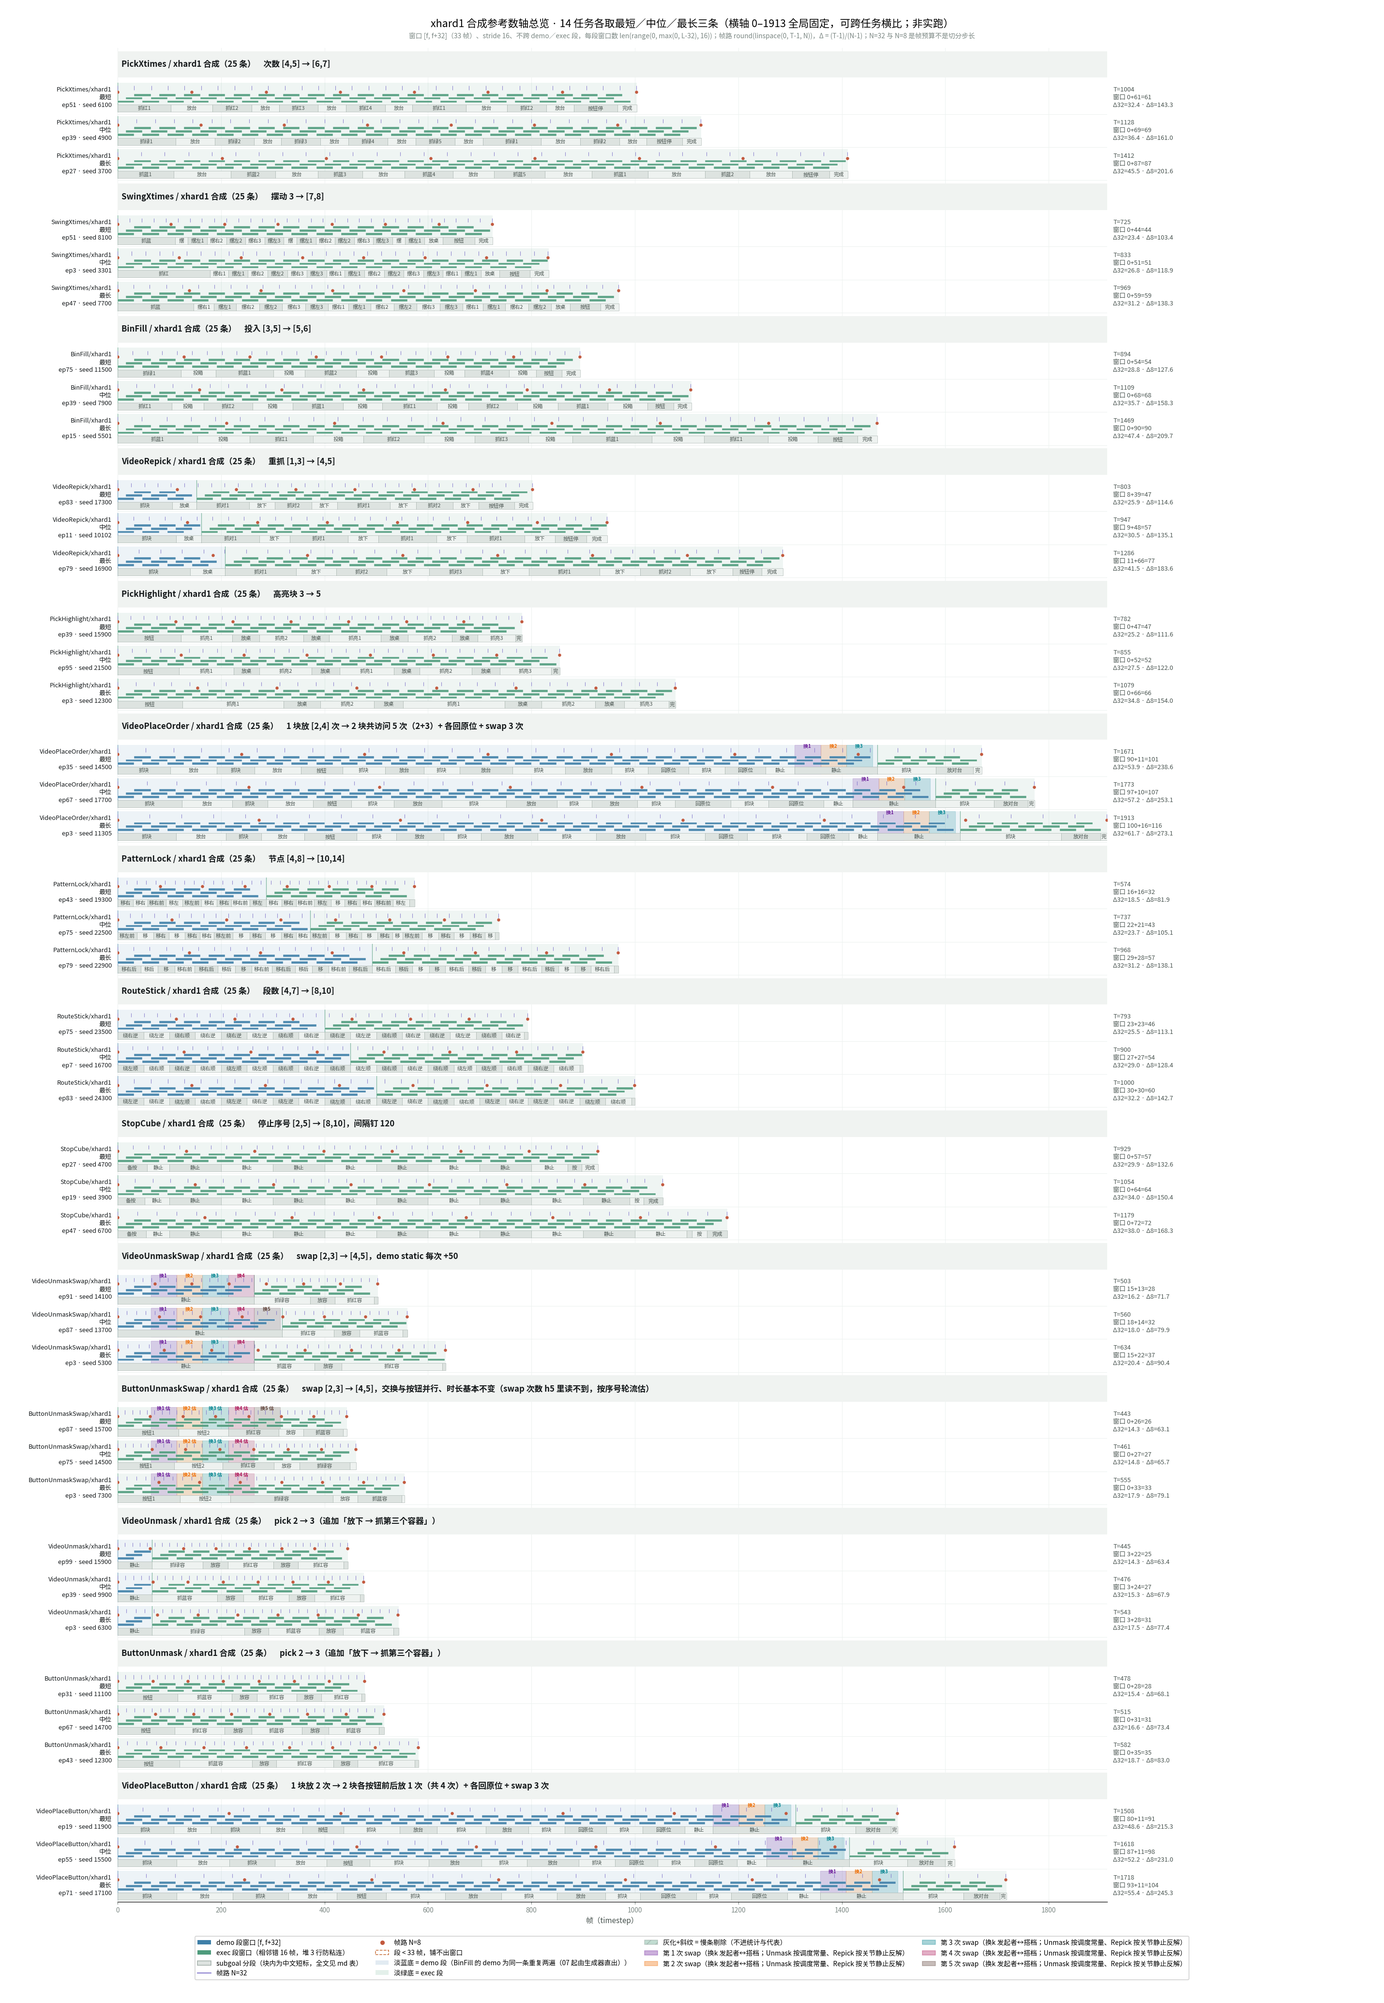
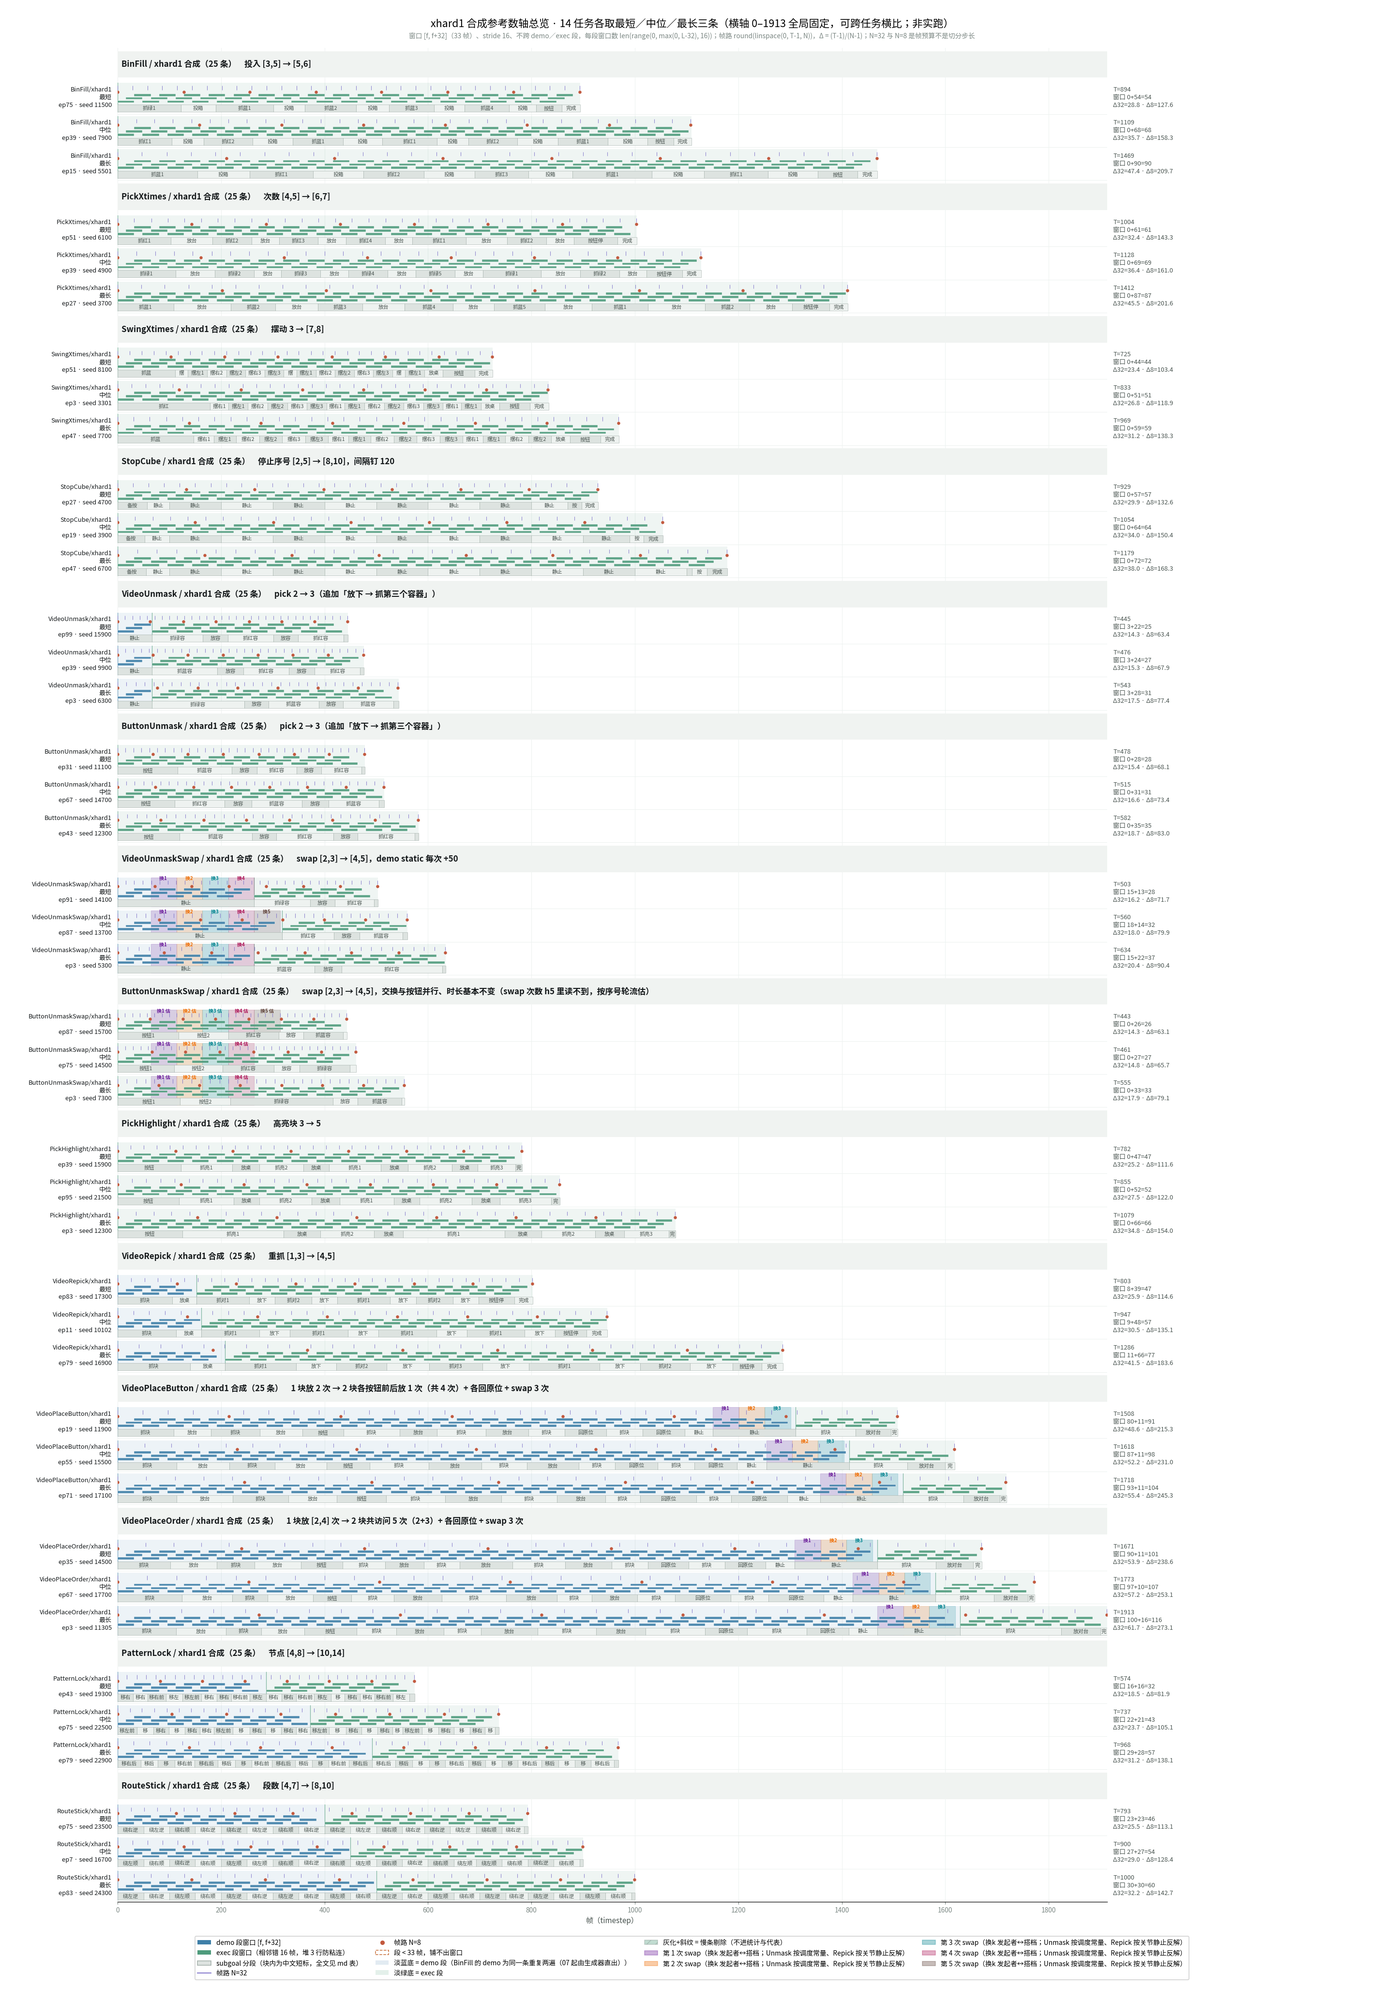
2.35.1 任务表格按 robomme.github.io 四类顺序排列并写入 AGENTS.md P6
一、用户指令原话（2026-10-07）
「按照https://robomme.github.io/的分类来排列表格 你现在都乱排的 写入agentsmd」

二、计划
1. 从官网取四类与类内顺序：计数 1.1 BinFill、1.2 PickXtimes、1.3 SwingXtimes、1.4 StopCube；永久性 2.1 VideoUnmask、2.2 ButtonUnmask、2.3 VideoUnmaskSwap、2.4 ButtonUnmaskSwap；参考 3.1 PickHighlight、3.2 VideoRepick、3.3 VideoPlaceButton、3.4 VideoPlaceOrder；模仿 4.1 MoveCube、4.2 InsertPeg、4.3 PatternLock、4.4 RouteStick。
2. 计划、vis 脚本与 README 里所有按任务列的表格、列表、汇总、总览图都按此重排；AGENTS.md 加项目规则 P6。

三、实施
一、1006-xhard12-env-plan.md：用一次性脚本按任务名（含 snake_case 文件名）给表格行取官网序号排序，不改行内容。四节配置对比表 `#`（原 env_code 顺序）改为「编号 | 类别」两列，用官网编号 1.1～4.4，表前说明改为按官网四类；「纳入 14 个（#1～12、15、16）」改写为「1.1～3.4、4.3、4.4」，追加纳入的「#6、8、10、11」改写为「2.1、2.2、3.3、3.4」。重排的还有：V2 逐任务长度对比表、swap 结果表、第二部分子类文件表、八节逐任务估算列表（重编 1～12）。逐任务图链接表改为按类别四行。一节范围表、S1/S2 可写文件集合、runbook 全量 `--env` 列表内部按同序排列。
二、vis/synthesize_reference_timeline.py：新增 `SUITE_ORDER`，默认 `--tasks` 与处理顺序按它排序，因此 reference_summary.md 与 overview.png 都按四类顺序。删除 `RULES` 里一个失效的重复键（VideoPlaceOrder 的旧 `pairs_demo` 规则，早已被后写的 `place_two_cubes` 覆盖，运行结果不变）。
三、vis/README.md：复制规则表按四类排序并加一句说明；删除同一条失效的 VideoPlaceOrder 旧规则行，否则重排后「同上」会指向它。
四、AGENTS.md：新增 P6，写明四类顺序、编号用法；注明 seed_layout.py 的 env_code 属于 seed 公式，不受本条影响。

四、意外
发现 vis 的 RULES 与 README 各残留一条 2.34 之前的 VideoPlaceOrder 规则（字典重复键，后者生效），顺手删除。核对重跑后 14 个 reference_*.json 与 14 张逐任务图逐字节不变，说明运行结果确实不受影响。

五、验证
[…]

diff --git a/vis/synthesize_reference_timeline.py b/vis/synthesize_reference_timeline.py
@@ -52,8 +52,6 @@ RULES: dict[str, dict[str, Any]] = {
                     "place": r"^put it down$", "target": [4, 5], "note": "重抓 [1,3] → [4,5]"},
     "PickHighlight": {"kind": "pairs_exec_lastpick", "pick": r"^pick up the \w+ highlighted cube",
                       "place": r"^place the cube onto the table$", "target": [5], "note": "高亮块 3 → 5"},
-    "VideoPlaceOrder": {"kind": "pairs_demo", "pick": r"^pick up the cube$", "place": r"^drop the cube onto target$",
-                        "target": [4], "note": "演示放台 [2,4] → 4"},
     "PatternLock": {"kind": "moves_both", "move": r"^move ", "target": [10, 11, 12, 13, 14], "note": "节点 [4,8] → [10,14]"},
     "RouteStick": {"kind": "moves_both", "move": r"^move to the nearest ", "target": [8, 9, 10], "note": "段数 [4,7] → [8,10]"},
     "StopCube": {"kind": "stopcube", "target": [8, 9, 10], "interval": 120, "note": "停止序号 [2,5] → [8,10]，间隔钉 120"},
@@ -67,6 +65,16 @@ RULES: dict[str, dict[str, Any]] = {
     "VideoPlaceOrder": {"kind": "place_two_cubes", "visits": 5, "swaps": 3,
                         "note": "1 块放 [2,4] 次 → 2 块共访问 5 次（2+3）+ 各回原位 + swap 3 次"},
 }
+
+# 任务排列顺序：按 https://robomme.github.io/ 的四类与类内顺序（AGENTS.md P6）。
+# 计数 Counting 1.1–1.4、永久性 Permanence 2.1–2.4、参考 Reference 3.1–3.4、模仿 Imitation 4.1–4.4。
+SUITE_ORDER = [
+    "BinFill", "PickXtimes", "SwingXtimes", "StopCube",
+    "VideoUnmask", "ButtonUnmask", "VideoUnmaskSwap", "ButtonUnmaskSwap",
+    "PickHighlight", "VideoRepick", "VideoPlaceButton", "VideoPlaceOrder",
+    "MoveCube", "InsertPeg", "PatternLock", "RouteStick",
+]
+assert set(RULES) <= set(SUITE_ORDER)
 
 # 计划第一部分四节的外推值（中位 T / 窗），用来和合成值对账
 PLAN_EXTRAPOLATION = {
@@ -354,13 +362,13 @@ def main(argv=None) -> int:
     parser.add_argument("--h5-dir", default="/data/hongzefu/data_0226")
     parser.add_argument("--metadata-dir", default=str(REPO_ROOT / "src" / "robomme" / "env_metadata" / "train"))
     parser.add_argument("--out", default=str(REPO_ROOT / "vis" / "output"))
-    parser.add_argument("--tasks", default=",".join(RULES))
+    parser.add_argument("--tasks", default=",".join(t for t in SUITE_ORDER if t in RULES))
     args = parser.parse_args(argv)
 
     v2_plot.use_cjk_font()
     out_dir = Path(args.out)
     out_dir.mkdir(parents=True, exist_ok=True)
-    tasks = [t for t in args.tasks.split(",") if t]
+    tasks = sorted((t for t in args.tasks.split(",") if t), key=SUITE_ORDER.index)
     summary_rows = []
     swap_rows = []
     swap_min: dict[str, int] = {}

diff --git a/vis/output/reference_summary.md b/vis/output/reference_summary.md
@@ -4,20 +4,20 @@
 
 | 任务 | n | hard T（最短/中位/最长） | 合成 T（最短/中位/最长） | 外推 T | hard 窗（中位） | 合成窗（最短/中位/最长） | 外推窗 | 合成 Δ8（中位） | 合成最短段（中位） | 合成执行段漏（均值） | 合成 swap 漏（均值） | hard 合计漏（均值） | 合成合计漏（均值） | 0 漏条数 hard → 合成 |
 |---|---:|---|---|---:|---:|---|---:|---:|---:|---|---|---|---|---|
+| BinFill | 25 | 584/868/1044 | 894/1109/1469 | 1140 | 53 | 54/68/90 | 69 | 158 | 59 | 4.96（最少 4） | 0（最少 0） | 3.12（最少 1） | 4.96（最少 4） | 0/25 → 0/25 |
 | PickXtimes | 25 | 686/812/1025 | 1004/1128/1412 | 1120 | 49 | 61/69/87 | 68 | 161 | 56 | 7.04（最少 6） | 0（最少 0） | 3.52（最少 2） | 7.04（最少 6） | 0/25 → 0/25 |
 | SwingXtimes | 25 | 449/488/570 | 725/833/969 | 840 | 29 | 44/51/59 | 50 | 118 | 31 | 11.36（最少 10） | 0（最少 0） | 3.08（最少 3） | 11.36（最少 10） | 0/25 → 0/25 |
-| BinFill | 25 | 584/868/1044 | 894/1109/1469 | 1140 | 53 | 54/68/90 | 69 | 158 | 59 | 4.96（最少 4） | 0（最少 0） | 3.12（最少 1） | 4.96（最少 4） | 0/25 → 0/25 |
-| VideoRepick | 25 | 405/543/1027 | 803/947/1286 | 935 | 31 | 47/57/77 | 56 | 135 | 50 | 4.92（最少 4） | 0（最少 0） | 0.88（最少 0） | 4.92（最少 4） | 8/25 → 0/25 |
+| StopCube | 25 | 122/309/459 | 929/1054/1179 | 1020 | 18 | 57/64/72 | 62 | 150 | 27 | 5.28（最少 4） | 0（最少 0） | 0.36（最少 0） | 5.28（最少 4） | 16/25 → 0/25 |
+| VideoUnmask | 25 | 309/329/399 | 445/476/543 | 480 | 18 | 25/27/31 | 26 | 67 | 50 | 0.08（最少 0） | 0（最少 0） | 0（最少 0） | 0.08（最少 0） | 25/25 → 24/25 |
+| ButtonUnmask | 25 | 353/373/452 | 478/515/582 | 525 | 22 | 28/31/35 | 30 | 73 | 48 | 0.92（最少 0） | 0（最少 0） | 0.16（最少 0） | 0.92（最少 0） | 21/25 → 10/25 |
+| VideoUnmaskSwap | 25 | 407/457/586 | 503/560/634 | 560 | 26 | 28/32/37 | 31 | 79 | 50 | 0.72（最少 0） | 1.52（最少 1） | 0.56（最少 0） | 2.24（最少 1） | 11/25 → 0/25 |
+| ButtonUnmaskSwap | 25 | 443/461/555 | 443/461/555 | 520 | 27 | 26/27/33 | 31 | 65 | 48 | 0.12（最少 0） | 0.72（最少 0） | 0.16（最少 0） | 0.84（最少 0） | 21/25 → 7/25 |
 | PickHighlight | 25 | 492/539/652 | 782/855/1079 | 850 | 32 | 47/52/66 | 51 | 122 | 50 | 3.36（最少 3） | 0（最少 0） | 0.36（最少 0） | 3.36（最少 3） | 18/25 → 0/25 |
+| VideoRepick | 25 | 405/543/1027 | 803/947/1286 | 935 | 31 | 47/57/77 | 56 | 135 | 50 | 4.92（最少 4） | 0（最少 0） | 0.88（最少 0） | 4.92（最少 4） | 8/25 → 0/25 |
+| VideoPlaceButton | 25 | 900/961/1041 | 1508/1618/1718 | 1550 | 57 | 91/98/104 | 92 | 231 | 71 | 1.96（最少 1） | 2.04（最少 2） | 1.92（最少 1） | 4（最少 4） | 0/25 → 0/25 |
 | VideoPlaceOrder | 25 | 921/1115/1408 | 1671/1773/1913 | 1800 | 67 | 101/108/116 | 110 | 253 | 70 | 1.96（最少 1） | 2.04（最少 2） | 2（最少 2） | 4（最少 4） | 0/25 → 0/25 |
 | PatternLock | 25 | 186/324/568 | 574/737/968 | 810 | 18 | 32/43/57 | 49 | 105 | 23 | 8（最少 6） | 0（最少 0） | 2.08（最少 0） | 8（最少 6） | 2/25 → 0/25 |
 | RouteStick | 25 | 400/500/700 | 793/900/1000 | 900 | 28 | 46/54/60 | 53 | 128 | 43 | 5.96（最少 5） | 0（最少 0） | 2.52（最少 1） | 5.96（最少 5） | 0/25 → 0/25 |
-| StopCube | 25 | 122/309/459 | 929/1054/1179 | 1020 | 18 | 57/64/72 | 62 | 150 | 27 | 5.28（最少 4） | 0（最少 0） | 0.36（最少 0） | 5.28（最少 4） | 16/25 → 0/25 |
-| VideoUnmaskSwap | 25 | 407/457/586 | 503/560/634 | 560 | 26 | 28/32/37 | 31 | 79 | 50 | 0.72（最少 0） | 1.52（最少 1） | 0.56（最少 0） | 2.24（最少 1） | 11/25 → 0/25 |
-| ButtonUnmaskSwap | 25 | 443/461/555 | 443/461/555 | 520 | 27 | 26/27/33 | 31 | 65 | 48 | 0.12（最少 0） | 0.72（最少 0） | 0.16（最少 0） | 0.84（最少 0） | 21/25 → 7/25 |
-| VideoUnmask | 25 | 309/329/399 | 445/476/543 | 480 | 18 | 25/27/31 | 26 | 67 | 50 | 0.08（最少 0） | 0（最少 0） | 0（最少 0） | 0.08（最少 0） | 25/25 → 24/25 |
-| ButtonUnmask | 25 | 353/373/452 | 478/515/582 | 525 | 22 | 28/31/35 | 30 | 73 | 48 | 0.92（最少 0） | 0（最少 0） | 0.16（最少 0） | 0.92（最少 0） | 21/25 → 10/25 |
-| VideoPlaceButton | 25 | 900/961/1041 | 1508/1618/1718 | 1550 | 57 | 91/98/104 | 92 | 231 | 71 | 1.96（最少 1） | 2.04（最少 2） | 1.92（最少 1） | 4（最少 4） | 0/25 → 0/25 |
 
 ## 有 swap 的四个任务
 
@@ -25,9 +25,9 @@ swap 事件时刻：VideoUnmaskSwap / ButtonUnmaskSwap 按调度常量 `[64+50(k
 
 | 任务 | swap 次数 hard → xhard1 | swap 漏均值 hard → xhard1 | 合计漏最少 hard → xhard1 | 0 漏条数 hard → xhard1 |
 |---|---|---|---|---|
-| VideoPlaceOrder | 1–1 → 3–3 | 1 → 2.04（最少 2） | 2 → 4 | 0/25 → 0/25 |
 | VideoUnmaskSwap | 2–3 → 4–5 | 0.56 → 1.52（最少 1） | 0 → 1 | 11/25 → 0/25 |
 | ButtonUnmaskSwap | 2–3 → 4–5 | 0.04 → 0.72（最少 0） | 0 → 0 | 21/25 → 7/25 |
 | VideoPlaceButton | 1–1 → 3–3 | 0.92 → 2.04（最少 2） | 1 → 4 | 0/25 → 0/25 |
+| VideoPlaceOrder | 1–1 → 3–3 | 1 → 2.04（最少 2） | 2 → 4 | 0/25 → 0/25 |
 
 各任务复制规则见 `vis/synthesize_reference_timeline.py` 的 `RULES`；逐条数据见同目录 `reference_<Task>.json`；图见 `<Task>.png`（每任务按合成 T 取最短 / 中位 / 最长三条，每条上行官方 hard、下行 xhard1 合成，竖带为 swap）与 `overview.png`（V2 画法总览）；V2 实测原图见 `../v2/windows_overview.png`。

diff --git a/vis/README.md b/vis/README.md
@@ -21,22 +21,23 @@ uv run --no-sync python vis/synthesize_reference_timeline.py --h5-dir /data/hong
 
 ## 复制规则（`RULES`，取值与 `1006-xhard12-env-plan.md` 第一部分四节一致）
 
+表格、汇总、总览图里的任务一律按 [robomme.github.io](https://robomme.github.io/) 的四类顺序排列（计数 → 永久性 → 参考 → 模仿，类内按官网编号；`SUITE_ORDER`，`AGENTS.md` P6）。
+
 | 任务 | 复制的单元 | 规则 |
 |---|---|---|
+| BinFill | [pick up the nth color cube → put it into the bin] 一对 | T → 5 或 6 |
 | PickXtimes | 执行段 [pick up … for the nth time → place … onto the target] 一对 | 对数 N → N+2 |
 | SwingXtimes | [right-side → left-side] 一对 | 3 → 7 或 8（按 hard 序号轮流） |
-| BinFill | [pick up the nth color cube → put it into the bin] 一对 | T → 5 或 6 |
-| VideoRepick | 执行段 [pick up the correct cube … → put it down] 一对 | N → 4 或 5 |
-| PickHighlight | [pick up the nth highlighted cube → place the cube onto the table] 一对，插在最后一个 pick 之前 | 3 → 5 |
-| VideoPlaceOrder | demo 段 [pick up the cube → drop the cube onto target] 一对 | P → 4 |
-| PatternLock | demo 与 exec 各自的 `move …` 段 | 节点 L → L′∈[10,14]，两侧各补 L′−L 段 |
-| RouteStick | demo 与 exec 各自的 `move to the nearest …` 段 | S → S′∈[8,10]，两侧各补 |
 | StopCube | `remain static` 段 | k′∈[8,10]、间隔钉 120：static 检查点每 100 步一段到 120k′−90 止；首段与按钮、尾段原样 |
+| VideoUnmask / ButtonUnmask | [put down the container → pick up the container …] 一对 | pick 2 → 3：在尾段前追加一对（2026-10-06 用户决定纳入） |
 | VideoUnmaskSwap | demo `static` 段 | S′∈{4,5}，demo 长度 = 6·ceil((64+50S′)/6) |
 | ButtonUnmaskSwap | 无独立 demo 段 | 合成 = 原样（交换与按钮并行，时长基本不变） |
-| VideoUnmask / ButtonUnmask | [put down the container → pick up the container …] 一对 | pick 2 → 3：在尾段前追加一对（2026-10-06 用户决定纳入） |
+| PickHighlight | [pick up the nth highlighted cube → place the cube onto the table] 一对，插在最后一个 pick 之前 | 3 → 5 |
+| VideoRepick | 执行段 [pick up the correct cube … → put it down] 一对 | N → 4 或 5 |
 | VideoPlaceButton | demo 段 [pick up the cube → drop the cube onto target] 对、按钮、[pick → drop onto table] 对（代表回原位）、两段 static | 2 块各按钮前后放 1 次（共 4 对）→ 按钮 → 2 对回原位 → static 20 → static 60+100（swap 3 次）（2026-10-06 用户决定） |
 | VideoPlaceOrder | 同上 | 2 块共访问 5 次（按钮前 2 对、后 3 对）→ 2 对回原位 → static 20 → static 160（swap 3 次）（2026-10-06 用户决定） |
+| PatternLock | demo 与 exec 各自的 `move …` 段 | 节点 L → L′∈[10,14]，两侧各补 L′−L 段 |
+| RouteStick | demo 与 exec 各自的 `move to the nearest …` 段 | S → S′∈[8,10]，两侧各补 |
 
 复制的段沿用原文（含序数词），所以图上会出现「抓红4」后面又来「抓红1」，这是复制粘贴的痕迹，不代表真实序号。
 

diff --git a/AGENTS.md b/AGENTS.md
@@ -387,6 +387,13 @@ command -v micromamba >/dev/null && echo "micromamba: 有" || echo "micromamba: 
 - **P4. 不做 BinFill 假 demo**（2026-10-06 用户决策「不再把 BinFill 做成带 video 的任务」）：origin/newtask-v2 的 `--binfill-demo`（把成品轨迹重复两遍、前半标 `is_video_demo=True`）**不移植、不传**；本分支生成器已核实不含该代码，保持不含。统计脚本也不复用其 `simulate_binfill_demo` 模拟分支。
 - **P5. 不得擅加大规模 reset 对拍或 rollout 生成；采样生成分布的实现须另与用户沟通**（沿用 benchmark 仓库 2026-09-26 用户原话「不要做大量reset对拍！除非用户指定！」「禁止擅加大规模 reset 对拍 禁止加入大量的rollout生成 用户需要采样生成的分布 也要单独和用户沟通怎么实现」）。正式生成规模以用户明确要求为准；每任务 smoke 默认 3 个 hard seed，放大前先报规模、耗时、用途并取得用户对该批次的明确决定；正本第 4 条的最小 smoke 仍可执行。用户叫停时精确 `tmux kill-session -t '=会话名'`，核对无残留 worker，保留已写产物与日志。
 
+- **P6. 凡列出多个任务的表格、列表、汇总、图，一律按 [robomme.github.io](https://robomme.github.io/) 的四类与类内顺序排列**（2026-10-07 用户原话「按照https://robomme.github.io/的分类来排列表格 你现在都乱排的 写入agentsmd」）。顺序与编号照抄官网 Task 编号：
+    - **1 计数 Counting**：1.1 BinFill、1.2 PickXtimes、1.3 SwingXtimes、1.4 StopCube；
+    - **2 永久性 Permanence**：2.1 VideoUnmask、2.2 ButtonUnmask、2.3 VideoUnmaskSwap、2.4 ButtonUnmaskSwap；
+    - **3 参考 Reference**：3.1 PickHighlight、3.2 VideoRepick、3.3 VideoPlaceButton、3.4 VideoPlaceOrder；
+    - **4 模仿 Imitation**：4.1 MoveCube、4.2 InsertPeg、4.3 PatternLock、4.4 RouteStick。
+    - 不按 env_code、字母序或改法分组排任务；表格要编号时用官网编号（如 `2.3`），可另加「类别」列。只列部分任务时，保持上述相对顺序。代码里需要任务顺序时（如 `vis/synthesize_reference_timeline.py::SUITE_ORDER`）同样照此顺序；`seed_layout.py` 的 env_code 是 seed 公式的一部分，不受本条影响、不改。
+
 ## 对正本的覆盖项（按正本条号；未列出的条目按正本执行）
 
 - **覆盖第 1 条（历史英文化遗留）**：豁免清单只有 `tests/lightweight/test_no_patch_report_debug_environment.py`（源自已删除的 `scripts/data-generation-v2-noPatch/` 英文化目录），既有英文内容保持原样；其余新增 / 修改内容一律中文。
